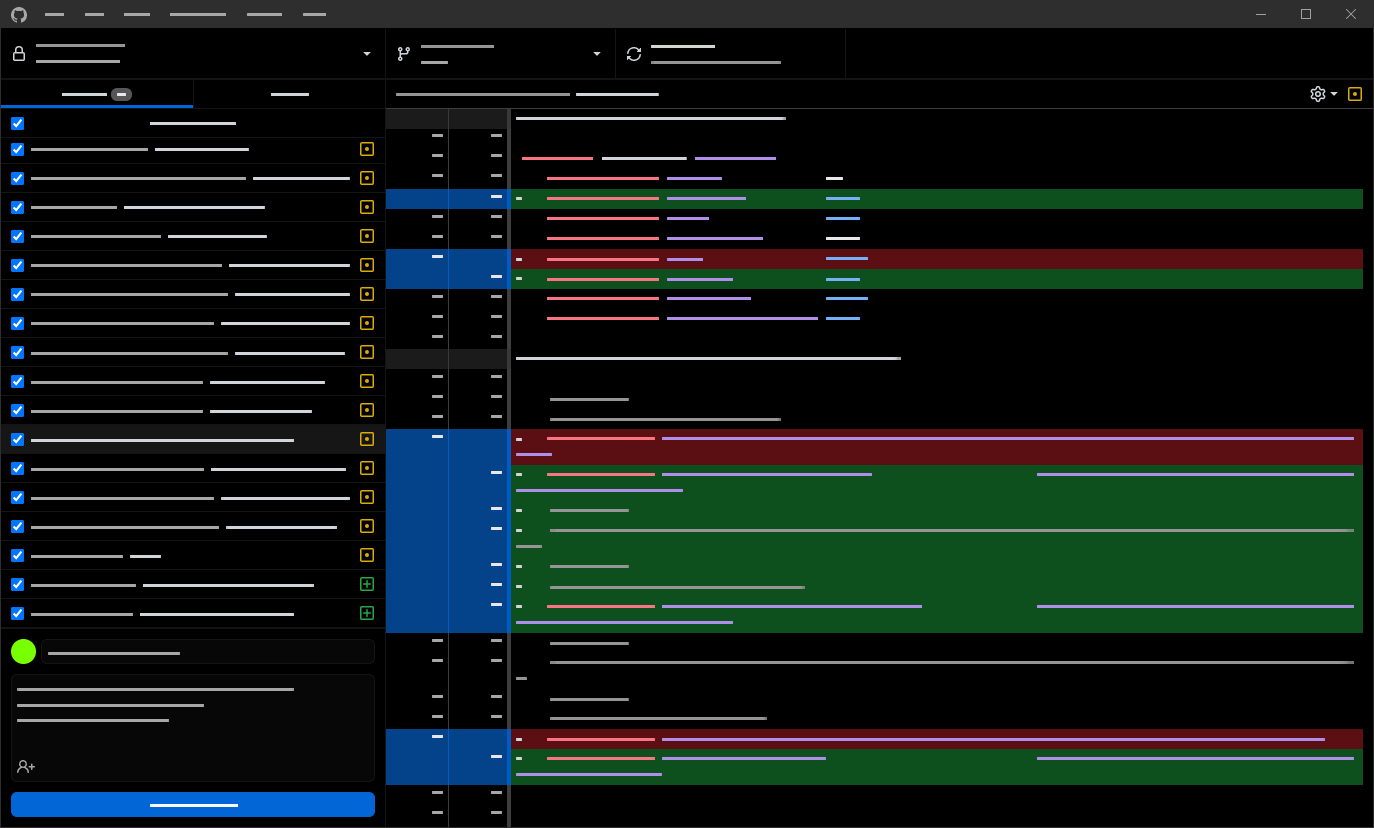
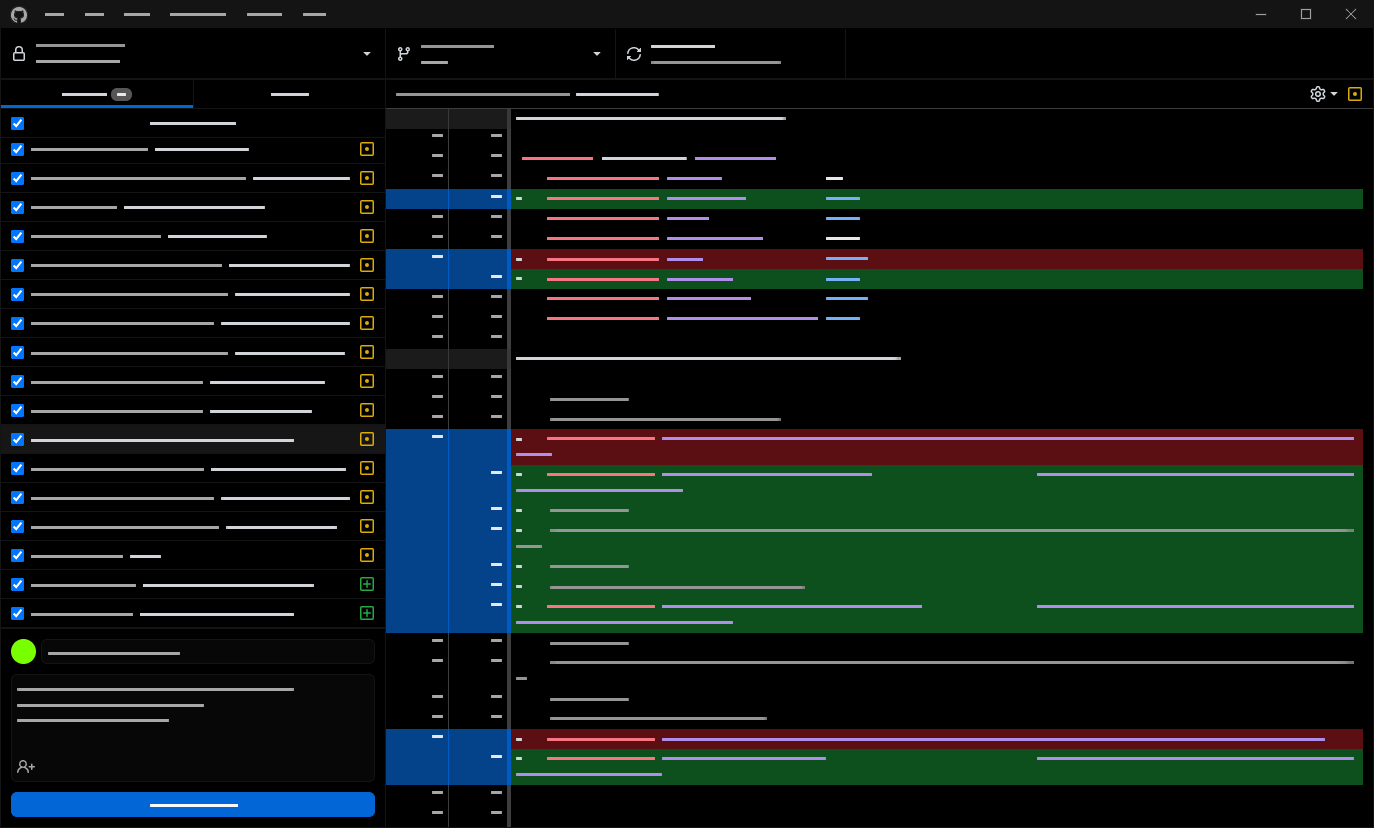
Minor update to colors in OLED/renderer.css
- Also updated OLED screenshot and GithubDesktopCSS.gif

Changed region(s): [[0.0, 0.0, 1.0, 0.0604], [0.0, 0.9964, 1.0, 1.0]]

diff --git a/OLED/renderer.css b/OLED/renderer.css
@@ -1078,8 +1078,8 @@ body.theme-dark {
   --secondary-button-text-color: var(--text-color);
   --secondary-button-focus-shadow-color: rgba(129, 129, 129, 0.75);
   --secondary-button-focus-border-color: #5c5c5c;
-  --win32-title-bar-background-color: #2e2e2e; /*CHANGED*/
-  --app-outer-border: #2e2e2e; /*CHANGED*/
+  --win32-title-bar-background-color: #141414; /*CHANGED*/
+  --app-outer-border: #141414; /*CHANGED*/
   --tip-box-background-color: rgba(218, 218, 218, 0); /*ADDED*/
   --tip-box-border-color: #f1f1f1; /*ADDED*/
 
@@ -1180,7 +1180,7 @@ body.theme-dark {
   --toolbar-button-hover-color: #fff;
   --toolbar-button-hover-background-color: #0c0c0c; /*blue: 2f363d*/ /*CHANGED*/
   --toolbar-button-hover-border-color: var(--toolbar-button-border-color);
-  --toolbar-button-focus-background-color: #3d3d3d; /*blue: 2f363d*/ /*CHANGED*/
+  --toolbar-button-focus-background-color: #141414; /*blue: 2f363d*/ /*CHANGED*/
   --toolbar-button-active-color: var(--text-color);
   --toolbar-button-active-background-color: var(--background-color);
   --toolbar-button-active-border-color: var(--box-border-color);
@@ -1193,13 +1193,13 @@ body.theme-dark {
     */
   --app-menu-button-color: var(--toolbar-text-color);
   --app-menu-button-hover-color: var(--toolbar-button-hover-color);
-  --app-menu-button-hover-background-color: #3d3d3d;
+  --app-menu-button-hover-background-color: #0c0c0c;
   --app-menu-button-active-color: var(--text-color);
-  --app-menu-button-active-background-color: #3d3d3d; /*blue: 2f363d*/ /*CHANGED*/
+  --app-menu-button-active-background-color: #141414; /*blue: 2f363d*/ /*CHANGED*/
   --app-menu-pane-color: var(--text-color);
   --app-menu-pane-secondary-color: var(--text-secondary-color);
-  --app-menu-pane-background-color: #3d3d3d; /*blue: 2f363d*/ /*CHANGED*/
-  --app-menu-divider-color: #696969; /*blue: 586069*/ /*CHANGED*/
+  --app-menu-pane-background-color: #141414; /*blue: 2f363d*/ /*CHANGED*/
+  --app-menu-divider-color: #000000; /*blue: 586069*/ /*CHANGED*/
   /**
    * Background color for badges inside of toolbar buttons.
    * Examples of badges are the ahead/behind bubble in the
@@ -1642,10 +1642,10 @@ body.platform-win32 ::-webkit-scrollbar {
       #desktop-app-title-bar .window-controls button:focus {
         outline: none; }
       #desktop-app-title-bar .window-controls button:hover {
-        background-color: #888;
+        background-color: var(--app-menu-button-hover-background-color);
         color: #fff; }
         #desktop-app-title-bar .window-controls button:hover:active {
-          background-color: #666;
+          background-color: var(--app-menu-button-hover-background-color);
           transition: none; }
       #desktop-app-title-bar .window-controls button.close:hover {
         background-color: #e81123;
